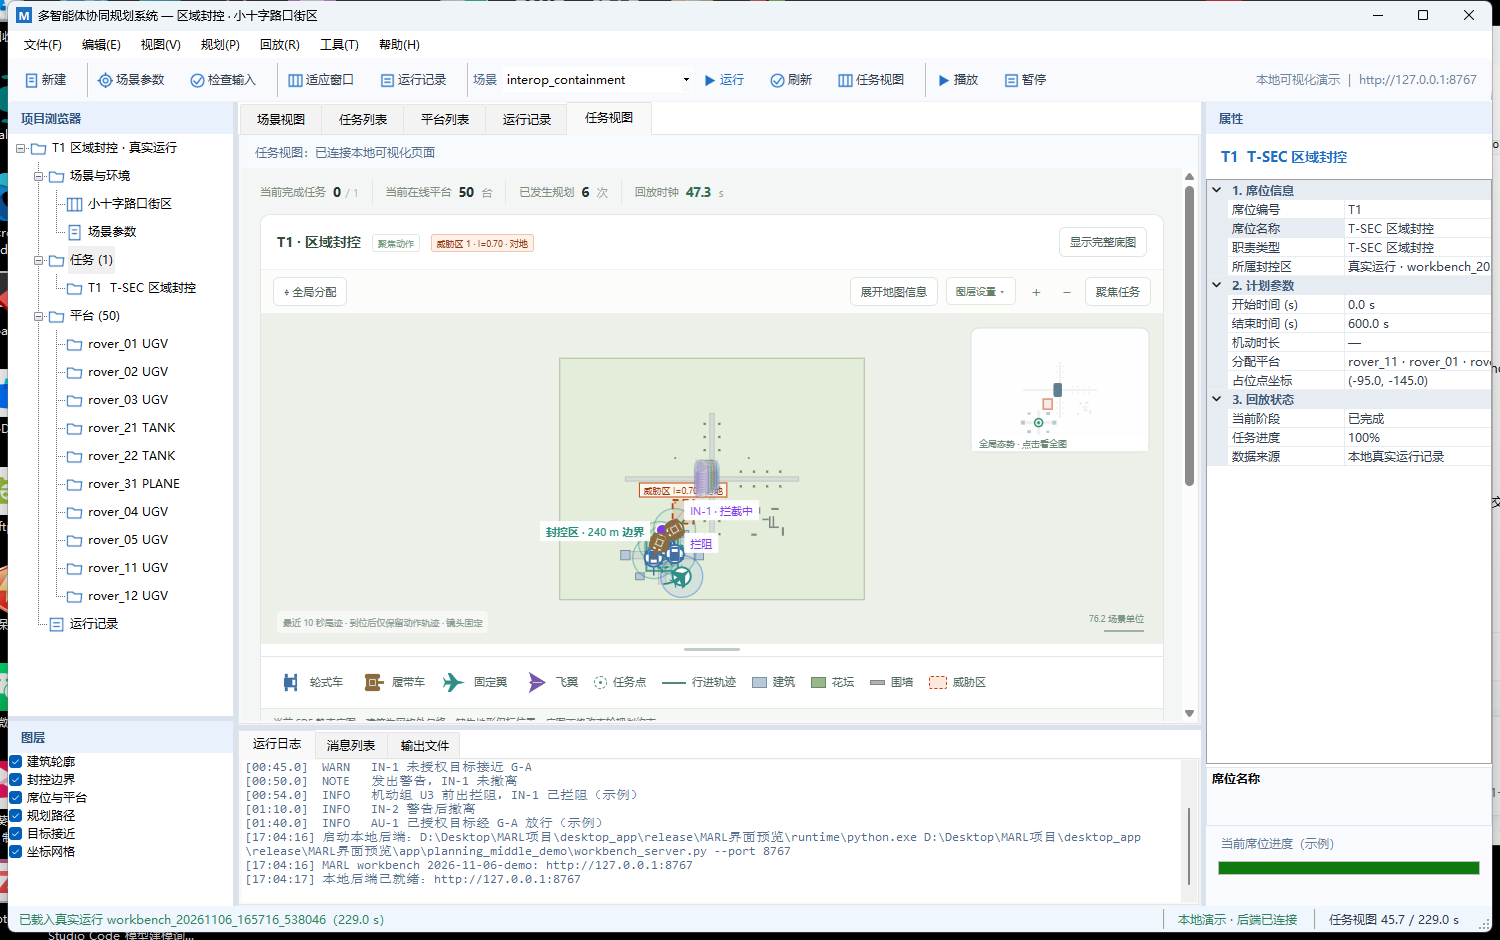
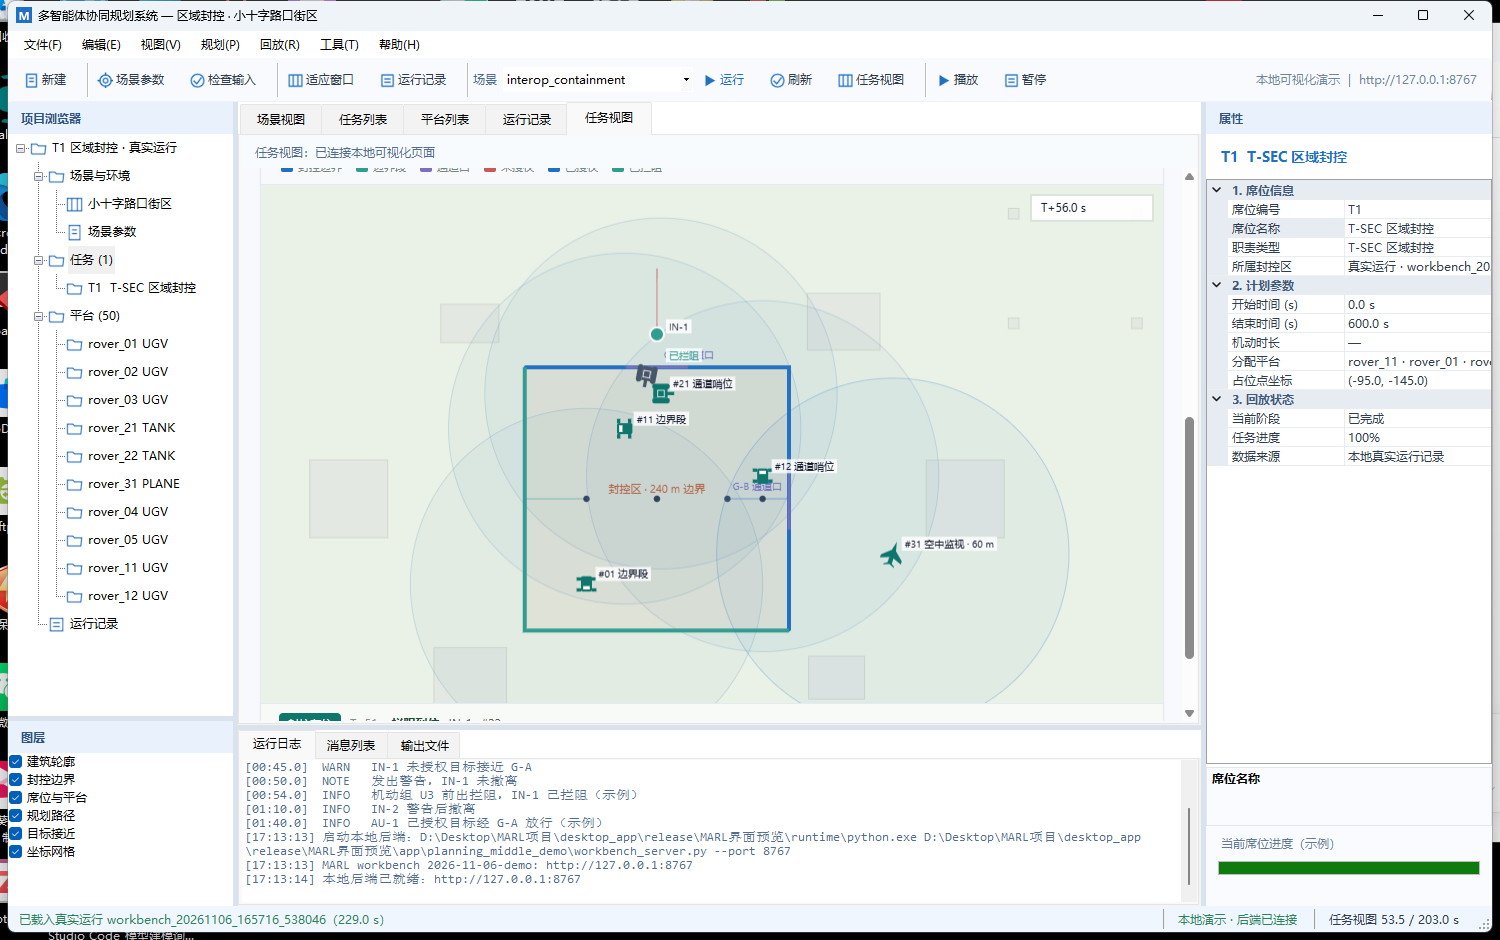
style(desktop): match embedded T-SEC map to native blue-gray theme

diff --git a/planning_middle_demo/workbench/app.js b/planning_middle_demo/workbench/app.js
@@ -10,7 +10,13 @@ function taskLabel(j){const source=state.run?.scenario?.jobs?.find(x=>x.job_id==
 const icons = {patrol:'↻',blockade:'◇',recon:'⌕',assault:'↗',hold:'⌂'};
 const kindNames = {UGV:'轮式车',TANK:'履带车',PLANE:'固定翼',WING:'飞翼'};
 function buildingName(id){const k=String(id||'').replace(/^env[ _]city[ _]/,'').replace(/#\d+$/,'').replace(/_/g,' ').trim();const h=k.match(/^house\s*(\d+)/i);if(h)return '民居 '+Number(h[1]);const o=k.match(/^office\s*(\d+)/i);if(o)return '办公楼 '+Number(o[1]);return k;}
-const taskPalette=['#288d79','#bd8534','#7264cb','#c27158','#478cac','#9a6b99'];
+const DESKTOP_MODE=new URLSearchParams(location.search).get('desktop')==='1';
+const taskPalette=DESKTOP_MODE?['#1f6fc3','#2f9e8f','#7a6fc1','#ce892e','#4f86b8','#8a6fa8']:['#288d79','#bd8534','#7264cb','#c27158','#478cac','#9a6b99'];
+const SURFACE_FILL=DESKTOP_MODE?'#eef2f7':'#e4edda';
+const SURFACE_STROKE=DESKTOP_MODE?'#c9d6e5':'#a9bf99';
+const PLAZA_FILL=DESKTOP_MODE?'#e7eef7':'#e8ded0';
+const ROAD_FILL=DESKTOP_MODE?'#e2eaf4':'#d8ddda';
+const ROAD_STROKE=DESKTOP_MODE?'#c6d3e1':'#b6c2b8';
 const events = {recording_start:'专项片段开始',recording_end:'专项片段结束',plan_emitted:'生成规划方案',job_dispatched:'下发作业',job_succeeded:'作业完成',job_requeued:'作业重新排队',job_failed:'作业失败',member_lost:'平台失联',timeout:'作业超时',deviation:'进度偏差',cancel_sent:'发出取消请求',command_abandoned:'终止失联成员指令',feedback_ignored:'反馈未采纳',behavior_event:'到位行为'};
 const behaviorEvents = {phase:'行为阶段切换',checkpoint_visited:'到达检查点',cycle_completed:'完成一圈巡逻',posts_occupied:'封控占位就绪',intrusion_detected:'发现入侵',interceptor_assigned:'指派拦截',intercepted:'拦截成功',breach:'越界',map_initialised:'地图初始化',frontier_mapped:'前沿测绘',coverage_reached:'覆盖达标',report_sent:'成果回传',recon_target_report:'侦察目标位置上报',recon_track_started:'开始跟踪目标',recon_track_report:'跟踪位置上报',recon_track_completed:'完成区外跟踪',relay_handoff:'任务接力',return_started:'开始返航',return_completed:'已返回出发点',return_failed:'返航失败',return_interrupted:'返航中接到新任务',patrol_position_report:'模拟上报目标位置',patrol_target_started:'移动目标进入场景',patrol_target_lost:'目标离开感知范围',map_shared:'共享地图更新',all_staged:'全员到位',assault_started:'突击开始',effect_started:'效果施加开始',effect_applied:'动作结束',confirmed:'结果确认',salvo_fired:'齐射',ammo_depleted:'平台弹药耗尽',ammo_exhausted:'弹药耗尽终止',restrike_needed:'需要二次打击',control_established:'控制建立',control_lost:'控制丢失',suppression_gap:'压制中断',handover:'移交',assessment_requested:'评估发起',assessment_received:'评估回传',effect_achieved:'效果达成',deadline_exceeded:'执行超时',terminate:'任务终止',behavior_result:'效果判定结果',result_failed:'结果未达成',result_pending:'结果待评估',on_post:'上岗',handover_start:'接替开始',handover_complete:'接替完成',relief:'换班',behavior_complete:'行为完成',arrived_area:'进入作业区',route_failed:'路径失败',command_received:'受领任务',target_designated:'目标指示',all_in_position:'全员到位执行位',withdraw_started:'撤离开始',withdrawn:'撤离完成',withdraw_timeout:'撤离超时',confirmation_timeout:'确认超时',attack_window_missed:'错过攻击窗口',task_timeout:'任务超时',arrived:'到达点位',energy_depleted:'电量耗尽',start_snapped:'出发点吸附',target_appeared:'目标出现',target_detected:'发现目标',target_authorized:'识别为已授权',target_unauthorized:'识别为未授权',warning_issued:'发出警告',warning_effective:'警告有效·目标撤离',intercept_assigned:'指派拦阻',intercept_denied:'授权不足未拦阻',intercepted:'拦阻到位',breach:'未授权进入',authorized_pass:'授权放行',control_established:'控制建立',control_interrupted:'控制中断',control_restored:'控制恢复',containment_result:'封控结果'};
 const triggerNames = {init:'首次规划',periodic:'周期更新',member_change:'成员变化',exec_fail:'执行失败',timeout:'超时',deviation:'进度偏差'};
@@ -836,13 +842,13 @@ function draw(){
   const line=(points,color,width=1,dash=[])=>{if(points.length<2)return;ctx.beginPath();points.forEach((p,i)=>{const a=P(p);i?ctx.lineTo(...a):ctx.moveTo(...a);});ctx.strokeStyle=color;ctx.lineWidth=width;ctx.setLineDash(dash);ctx.stroke();ctx.setLineDash([]);};
   const arrowAlong=(points,color)=>{if(!points||points.length<2)return;ctx.fillStyle=color;for(let i=1;i<points.length;i++){const a=P(points[i-1]),b=P(points[i]);if(Math.hypot(b[0]-a[0],b[1]-a[1])<34)continue;const mx=(a[0]+b[0])/2,my=(a[1]+b[1])/2,ang=Math.atan2(b[1]-a[1],b[0]-a[0]);ctx.beginPath();ctx.moveTo(mx+Math.cos(ang)*5.5,my+Math.sin(ang)*5.5);ctx.lineTo(mx+Math.cos(ang+2.6)*6,my+Math.sin(ang+2.6)*6);ctx.lineTo(mx+Math.cos(ang-2.6)*6,my+Math.sin(ang-2.6)*6);ctx.closePath();ctx.fill();}};
   const circle=(p,r,color,fill=null,dash=[])=>{const a=P(p);ctx.beginPath();ctx.arc(...a,r,0,Math.PI*2);if(fill){ctx.fillStyle=fill;ctx.fill();}ctx.strokeStyle=color;ctx.lineWidth=1.4;ctx.setLineDash(dash);ctx.stroke();ctx.setLineDash([]);};
-  if($('#show-obstacles').checked)for(const surface of mapGeometry('surfaces')){ctx.beginPath();surface.polygon.forEach((p,i)=>{const q=P(p);i?ctx.lineTo(...q):ctx.moveTo(...q);});ctx.closePath();ctx.fillStyle='#e4edda';ctx.fill();ctx.strokeStyle='#a9bf99';ctx.lineWidth=1;ctx.stroke();}
+  if($('#show-obstacles').checked)for(const surface of mapGeometry('surfaces')){ctx.beginPath();surface.polygon.forEach((p,i)=>{const q=P(p);i?ctx.lineTo(...q):ctx.moveTo(...q);});ctx.closePath();ctx.fillStyle=SURFACE_FILL;ctx.fill();ctx.strokeStyle=SURFACE_STROKE;ctx.lineWidth=1;ctx.stroke();}
   // 底图：道路/广场来自 SDF（env_road_*/env_city_road_*/env_city_square），
   // 只作底图不参与避障；先画路再画建筑，建筑才压得住路口。
   if($('#show-obstacles').checked&&mapGeometry('roads').length){
     for(const road of mapGeometry('roads')){ctx.beginPath();road.polygon.forEach((p,i)=>{const q=P(p);i?ctx.lineTo(...q):ctx.moveTo(...q);});ctx.closePath();
       const plaza=String(road.id||'').includes('square');
-      ctx.fillStyle=plaza?'#e8ded0':'#d8ddda';ctx.fill();ctx.strokeStyle='#b6c2b8';ctx.lineWidth=.8;ctx.stroke();}
+      ctx.fillStyle=plaza?PLAZA_FILL:ROAD_FILL;ctx.fill();ctx.strokeStyle=ROAD_STROKE;ctx.lineWidth=.8;ctx.stroke();}
   }
   // 威胁区是软约束：不阻断通行，只参与暴露度/路径代价。画成淡红虚线区，
   // 与建筑（实心）和道路（底图）区分开。

diff --git a/planning_middle_demo/workbench/desktop_bridge.js b/planning_middle_demo/workbench/desktop_bridge.js
@@ -12,6 +12,28 @@
   document.documentElement.classList.add('desktop-mode');
   var style = document.createElement('style');
   style.textContent = [
+    '.desktop-mode{--ink:#30435b;--muted:#7f93a8;--green:#1f6fc3;--green-dark:#155a9e;--green-light:#edf4fd;--line:#e3eaf3;--bg:#f7f9fc;--side:#1f3552;--white:#fff}',
+    '.desktop-mode body{background:#f7f9fc!important;color:#30435b!important}',
+    '.desktop-mode .card{border-color:#e3eaf3!important;box-shadow:0 2px 3px #19384a08!important}',
+    '.desktop-mode .card-heading h2{color:#304d6b!important}',
+    '.desktop-mode .eyebrow{color:#8fa2b6!important}',
+    '.desktop-mode .stat{background:#fff!important;border-color:#e3eaf3!important}',
+    '.desktop-mode .stat-icon{color:#5b8fc9!important;background:#eef4fc!important}',
+    '.desktop-mode .stat-number{color:#304d6b!important}',
+    '.desktop-mode .clock-stat{background:#edf4fd!important;border-color:#d8e6f5!important}',
+    '.desktop-mode .button.primary{background:#1f6fc3!important;border-color:#1f6fc3!important}',
+    '.desktop-mode .map-toolbar,.desktop-mode .map-selection,.desktop-mode .player{background:#fff!important}',
+    '.desktop-mode .canvas-wrap,.desktop-mode #scene{background:#fbfcfe!important}',
+    '.desktop-mode #ck-canvas,.desktop-mode #hl-canvas{background:#fbfcfe!important;border-color:#e3eaf3!important}',
+    '.desktop-mode #overview-ck-view,.desktop-mode .ck-body,.desktop-mode .ck-map-card,.desktop-mode .ck-panel{background:#f7f9fc!important}',
+    '.desktop-mode .map-card{border-color:#e3eaf3!important}',
+    '.desktop-mode .map-legend{border-top-color:#eef2f7!important;background:#fff!important}',
+    '.desktop-mode .progress-track{background:#eef2f7!important}',
+    '.desktop-mode .task-row.selected{background:#f1f6fd!important}',
+    '.desktop-mode .behavior-tile{border-left-color:#8fb4dd!important}',
+    '.desktop-mode .behavior-tile.selected{background:#f1f6fd!important}',
+    '.desktop-mode .ck-kpis>div{background:#fff!important;border-color:#e3eaf3!important}',
+    '.desktop-mode .ck-panel,.desktop-mode .ck-side .card{background:#fff!important;border-color:#e3eaf3!important}',
     '.desktop-mode .sidebar{display:none!important}',
     '.desktop-mode main{margin-left:0!important;padding:12px 18px 0!important;max-width:none!important}',
     '.desktop-mode .topbar,.desktop-mode .context-strip,.desktop-mode .run-strip,.desktop-mode footer{display:none!important}',
@@ -73,18 +95,25 @@
     button.click();
     return true;
   }
+  function containmentActive() {
+    var view = q('#overview-ck-view');
+    return !!(view && !view.hidden);
+  }
+  function playerButton() {
+    return containmentActive() ? q('#ck-play') : q('#play');
+  }
   function play() {
-    var button = q('#play');
+    var button = playerButton();
     if (button && button.textContent.indexOf('暂') < 0) button.click();
     return true;
   }
   function pause() {
-    var button = q('#play');
+    var button = playerButton();
     if (button && button.textContent.indexOf('暂') >= 0) button.click();
     return true;
   }
   function setTime(seconds) {
-    var scrubber = q('#scrubber');
+    var scrubber = containmentActive() ? q('#ck-scrub') : q('#scrubber');
     if (!scrubber) return false;
     scrubber.value = Number(seconds) || 0;
     return fire(scrubber, 'input');
@@ -109,10 +138,13 @@
     window.dispatchEvent(new Event('resize'));
     var button = q('#fit-map');
     if (button) button.click();
-    var allButton = q('#ck-cam-all');
-    if (allButton) allButton.click();
+    try { if (typeof showOverviewMode === 'function') showOverviewMode('containment'); } catch (error) { }
+    var areaButton = q('#ck-cam-area');
+    if (areaButton) areaButton.click();
     var containmentFit = q('#ck-fit');
     if (containmentFit) containmentFit.click();
+    var ckCanvas = q('#ck-canvas');
+    if (ckCanvas) ckCanvas.scrollIntoView({ block: 'center' });
     return true;
   }
   function startReplay(taskId, seconds, runId) {
@@ -136,9 +168,9 @@
           if (++taskTries < 12) window.setTimeout(chooseTask, 300);
         };
         chooseTask();
+        fit();
         setTime(seconds);
         play();
-        fit();
       } else if (++tries > 40) {
         window.clearInterval(timer);
       }
@@ -146,13 +178,16 @@
     return true;
   }
   function state() {
-    var playButton = q('#play');
     var activePage = q('.nav.active');
+    var ck = containmentActive();
+    var playButton = playerButton();
+    var clock = ck ? (q('#ck-time') || {}).textContent : (q('#stat-clock') || {}).textContent;
+    var duration = ck ? Number((q('#ck-scrub') || {}).max || 0) : Number(((q('#stat-end') || {}).textContent || '0').replace(/[^0-9.\-]/g, ''));
     return {
       runId: (q('#run-select') || {}).value || '',
       taskId: (q('#task-select') || {}).value || '',
-      time: Number(((q('#stat-clock') || {}).textContent || '0').replace(/[^0-9.\-]/g, '')) || 0,
-      duration: Number(((q('#stat-end') || {}).textContent || '0').replace(/[^0-9.\-]/g, '')) || 0,
+      time: Number(String(clock || '0').replace(/[^0-9.\-]/g, '')) || 0,
+      duration: Number(duration) || 0,
       playing: !!playButton && playButton.textContent.indexOf('暂') >= 0,
       page: activePage ? activePage.getAttribute('data-page') : 'overview'
     };

diff --git a/planning_middle_demo/workbench/containment.js b/planning_middle_demo/workbench/containment.js
@@ -15,14 +15,22 @@
     raf: null, last: 0, built: false, bounds: null,
     cam: 'all', visible: false, showRoutes: false,
   };
-  const COLORS = {
+  const DESKTOP_MODE = new URLSearchParams(location.search).get('desktop') === '1';
+  const COLORS = DESKTOP_MODE ? {
+    area: '#1f6fc3', sector: '#2f9e8f', gate: '#7a6fc1',
+    unauthorized: '#cb5858', warned: '#ce892e', intercepting: '#7a6fc1',
+    held: '#2f9e8f', breach: '#b03a3a', withdrawn: '#7f93a8',
+    passed: '#1f6fc3', waiting: '#9aa9b8', post: '#30435b',
+  } : {
     area: '#b4552d', sector: '#0f766e', gate: '#7c3aed',
     unauthorized: '#dc2626', warned: '#d97706', intercepting: '#7c3aed',
     held: '#0d9488', breach: '#991b1b', withdrawn: '#64748b',
     passed: '#2563eb', waiting: '#94a3b8', post: '#334155',
   };
   // 边界段配色与"封控区轮廓"明确区分：段线是任务色，轮廓只是虚线围栏。
-  const SECTOR_COLORS = ['#1d4ed8', '#0f766e', '#7c3aed', '#b45309', '#be123c'];
+  const SECTOR_COLORS = DESKTOP_MODE
+    ? ['#1f6fc3', '#2f9e8f', '#7a6fc1', '#ce892e', '#c27158']
+    : ['#1d4ed8', '#0f766e', '#7c3aed', '#b45309', '#be123c'];
   const EVENT_TICK = {
     control_established: '#0f766e', control_interrupted: '#b45309',
     control_restored: '#0f766e', target_appeared: '#94a3b8',
@@ -590,7 +598,7 @@
     const ctx = canvas.getContext('2d');
     ctx.setTransform(dpr, 0, 0, dpr, 0, 0);
     ctx.clearRect(0, 0, rect.width, rect.height);
-    ctx.fillStyle = '#f4f6f1';
+    ctx.fillStyle = DESKTOP_MODE ? '#fbfcfe' : '#f4f6f1';
     ctx.fillRect(0, 0, rect.width, rect.height);
     const st = structure();
     const [P, scale] = projectFactory(canvas);
@@ -751,11 +759,13 @@
         const r = Math.max(6, (st.sensor_radius_m || 35) * scale);
         ctx.beginPath();
         ctx.arc(c[0], c[1], r, 0, Math.PI * 2);
-        ctx.fillStyle = roleKind === 'air'
-          ? 'rgba(37,99,235,0.06)' : 'rgba(13,148,136,0.07)';
+        ctx.fillStyle = DESKTOP_MODE
+          ? (roleKind === 'air' ? 'rgba(31,111,195,0.05)' : 'rgba(79,134,184,0.05)')
+          : (roleKind === 'air' ? 'rgba(37,99,235,0.06)' : 'rgba(13,148,136,0.07)');
         ctx.fill();
-        ctx.strokeStyle = roleKind === 'air'
-          ? 'rgba(37,99,235,0.32)' : 'rgba(13,148,136,0.26)';
+        ctx.strokeStyle = DESKTOP_MODE
+          ? (roleKind === 'air' ? 'rgba(31,111,195,0.26)' : 'rgba(79,134,184,0.22)')
+          : (roleKind === 'air' ? 'rgba(37,99,235,0.32)' : 'rgba(13,148,136,0.26)');
         ctx.lineWidth = 1;
         ctx.stroke();
       }

diff --git a/planning_middle_demo/workbench/index.html b/planning_middle_demo/workbench/index.html
@@ -1,6 +1,6 @@
 <!doctype html>
 <html lang="zh-CN">
-<head><meta charset="utf-8"><meta name="viewport" content="width=device-width,initial-scale=1"><title>MARL · 规划演示工作台</title><link rel="icon" href="/favicon.svg"><link rel="stylesheet" href="/styles.css"><script src="/task_details.js" defer></script><script src="/containment.js" defer></script><script src="/hold.js" defer></script><script src="/app.js" defer></script><script src="/desktop_bridge.js" defer></script><link rel="stylesheet" href="/workbench_ui.css"><script src="/workbench_ui.js" defer></script></head>
+<head><meta charset="utf-8"><meta name="viewport" content="width=device-width,initial-scale=1"><title>MARL · 规划演示工作台</title><link rel="icon" href="/favicon.svg"><link rel="stylesheet" href="/styles.css?v=20261106g"><script src="/task_details.js" defer></script><script src="/containment.js?v=20261106g" defer></script><script src="/hold.js" defer></script><script src="/app.js?v=20261106g" defer></script><script src="/desktop_bridge.js?v=20261106g" defer></script><link rel="stylesheet" href="/workbench_ui.css"><script src="/workbench_ui.js" defer></script></head>
 <body>
 <aside class="sidebar">
   <a class="brand" href="/"><img src="/favicon.svg" alt=""><span>MARL<span class="brand-sub">规划演示工作台</span></span></a>

diff --git a/desktop_app/src/DesktopIntegration.cs b/desktop_app/src/DesktopIntegration.cs
@@ -112,10 +112,7 @@ namespace MarlDesktopPreview
             Documents.SelectedIndexChanged += delegate
             {
                 if (Documents.SelectedTab == taskViewTab && webReady && desktopRun != null)
-                {
                     Bridge("navigate('overview')");
-                    Bridge("fit()");
-                }
             };
 
             if (tree != null)
@@ -252,7 +249,7 @@ namespace MarlDesktopPreview
                 {
                     SetTaskViewStatus("任务视图：页面已载入，等待数据…");
                 };
-                webView.CoreWebView2.Navigate(url + "/?desktop=1");
+                webView.CoreWebView2.Navigate(url + "/?desktop=1&page=containment");
                 SetTaskViewStatus("任务视图：正在载入本地可视化页面…");
             }
             catch (Exception ex)
@@ -460,7 +457,6 @@ namespace MarlDesktopPreview
                        + desktopJson.Serialize(run.Id) + ")");
             }
             OpenTaskView();
-            Bridge("fit()");
         }
 
         private void UpdateDesktopTree(DesktopRunView run)
@@ -763,6 +759,7 @@ namespace MarlDesktopPreview
             }
             Documents.SelectedIndex = 4;
             string webState = "";
+            string webMetrics = "";
             try
             {
                 if (webView != null && webView.CoreWebView2 != null)
@@ -774,6 +771,14 @@ namespace MarlDesktopPreview
                         System.Threading.Thread.Sleep(20);
                     }
                     webState = stateTask.Status == TaskStatus.RanToCompletion ? stateTask.Result : "";
+                    Task<string> metricTask = webView.CoreWebView2.ExecuteScriptAsync(
+                        "JSON.stringify((function(){var c=document.querySelector('#ck-canvas');var s=document.querySelector('#scene');var r=c?c.getBoundingClientRect():null;var b=s?s.getBoundingClientRect():null;return {ck:r?[r.width,r.height]:null,scene:b?[b.width,b.height]:null,css:c?getComputedStyle(c).backgroundColor:null,page:getComputedStyle(document.body).backgroundColor};})())");
+                    while (!metricTask.IsCompleted)
+                    {
+                        Application.DoEvents();
+                        System.Threading.Thread.Sleep(20);
+                    }
+                    webMetrics = metricTask.Status == TaskStatus.RanToCompletion ? metricTask.Result : "";
                 }
             }
             catch (Exception) { }
@@ -781,6 +786,7 @@ namespace MarlDesktopPreview
             {
                 "web_ready=" + webReady,
                 "web_state=" + webState,
+                "web_metrics=" + webMetrics,
                 "backend=" + (desktopApi == null ? "" : desktopApi.BaseUrl),
                 "run=" + desktopRunId,
                 "tasks=" + (desktopRun == null ? 0 : desktopRun.Tasks.Count),

diff --git a/docs/交付/交付清单.md b/docs/交付/交付清单.md
@@ -27,7 +27,7 @@
 - 源码 commit：待填（演示分支 `work/20261106-demo`）。
 - Git 标签：`demo-v0.5.0` 待打。
 - 演示发布包：`desktop_app/release/MARL界面预览_v0.5.0.zip`
-- 发布包大小：14,376,056 字节
[1 lines of base64/hex data omitted]
+- 发布包大小：14,377,538 字节
[1 lines of base64/hex data omitted]
 - 全量测试：263 项通过，2 项跳过（2026-11-06）。
 - 文档版本：v0.5（骨架），正式交付前升版。

diff --git a/outputs/演示验证_20261106/README.md b/outputs/演示验证_20261106/README.md
@@ -32,8 +32,8 @@
 
 ```text
 desktop_app\release\MARL界面预览_v0.5.0.zip
-大小：14,376,056 字节（约 13.7 MB）
-SHA-256：78904BDD03D32ABD1692B267A4C166124728D94D17AC71209BF4FB83E3BD64D0
+大小：14,377,538 字节（约 13.7 MB）
+SHA-256：578940ECDA0E6170668C8B9144222AD4A7F494D60074CE16F1395C687C85E2D5
 ```
 
 解压后目录约 45 MB。启动方式：双击 `MARL界面预览.exe`。
